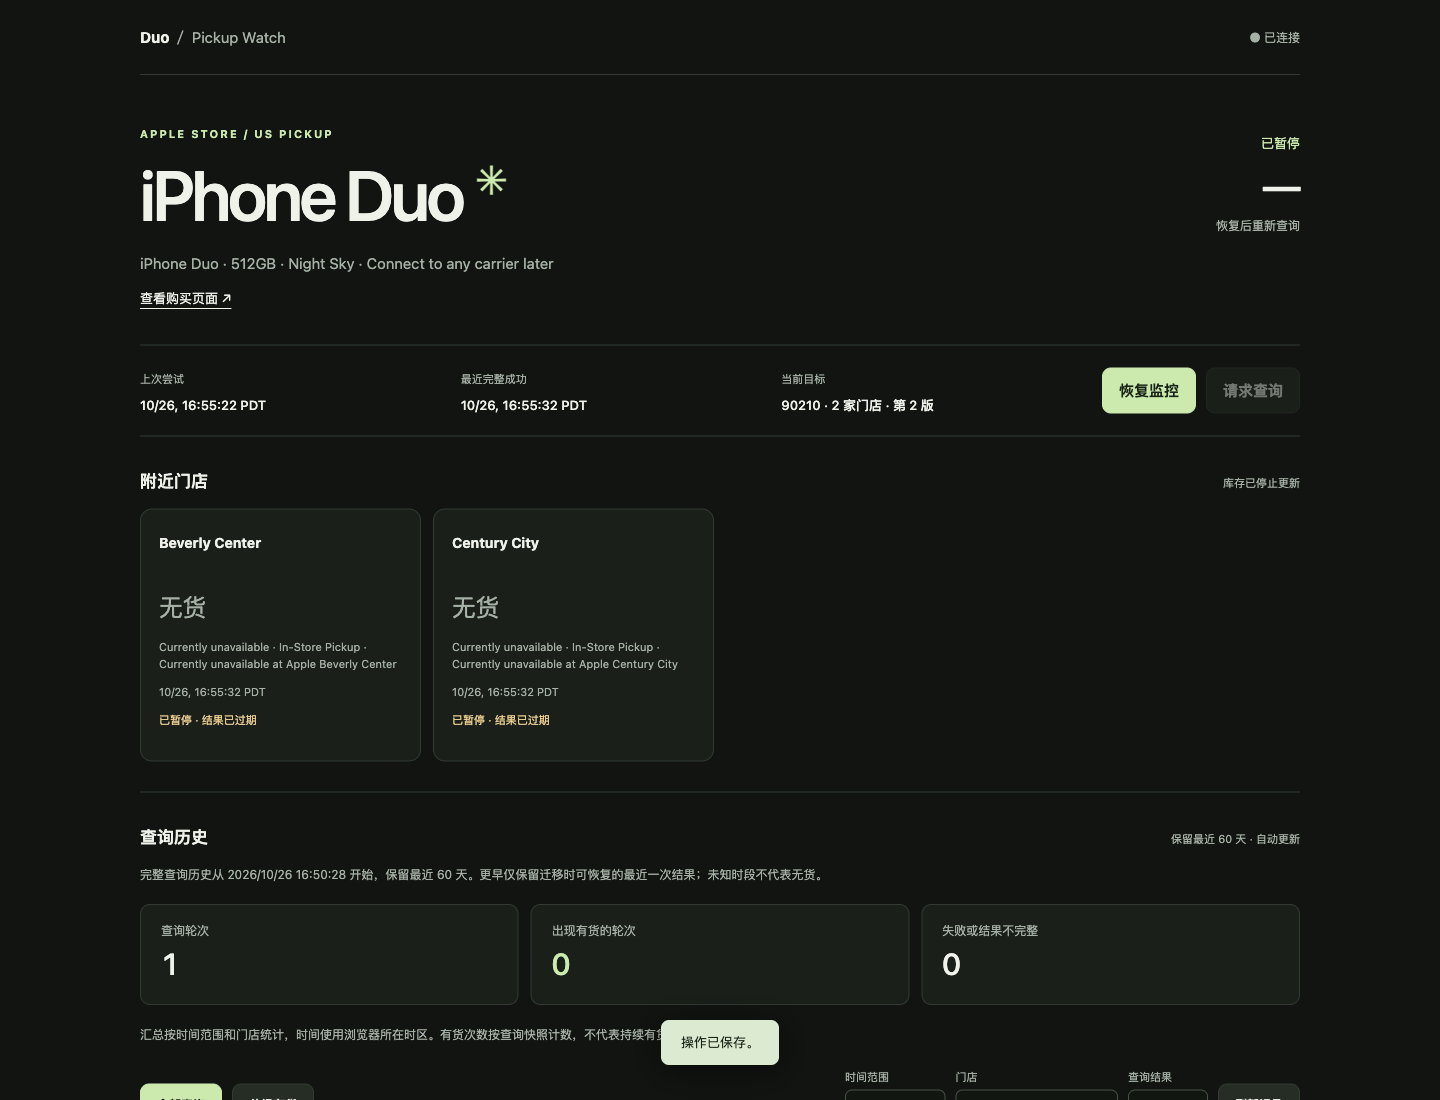
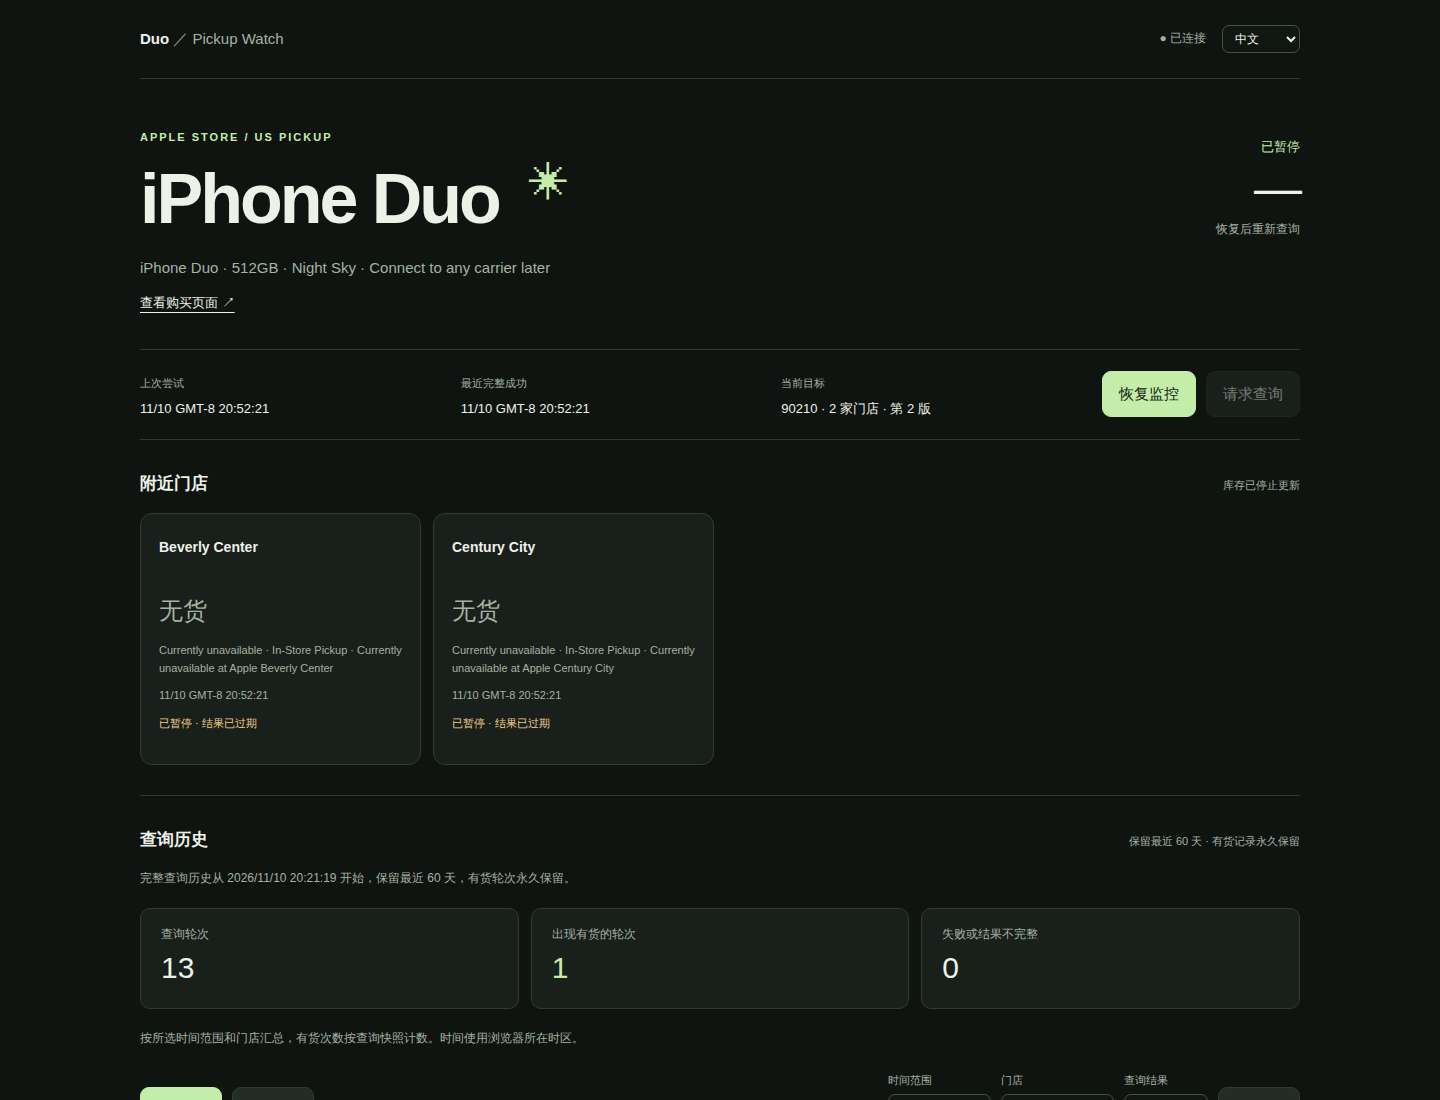
Apply full project review fixes
- Return 404 for a diagnostic screenshot whose file is gone instead of stopping the service
- Reject valid JSON bodies that are not objects, and require string store IDs
- Return 429 for a phone test during the channel cooldown
- Omit unchanged event lists from status pushes and expose retention days in /api/status
- Keep the settings form open across status pushes while unedited
- Prune history at query start and hourly instead of on read
- Drop dev dependencies from the Docker image and remove obsolete migration and fields
- Regenerate the dashboard screenshot and record the review in the verification docs

diff --git a/public/app.js b/public/app.js
@@ -52,6 +52,7 @@ applyLanguage();
 
 let state;
 let formVersion;
+let populatedSettings;
 let dirty = false;
 let received = 0;
 let offset = 0;
@@ -213,6 +214,7 @@ $('#discover').onclick = async (e) => {
 
 function populate(c) {
   formVersion = c.version;
+  populatedSettings = JSON.stringify(c);
 
   for (const [key, options] of Object.entries({
     color: c.options.colors,
@@ -260,6 +262,10 @@ function populate(c) {
 }
 
 function render(data, fresh = true) {
+  // The stream omits events when they have not changed since the previous push.
+  if (!data.events) {
+    data.events = state.events;
+  }
   state = data;
   if (fresh) {
     received = Date.now();
@@ -276,6 +282,8 @@ function render(data, fresh = true) {
   setText($('#last-attempt'), date(r.lastAttempt) || '尚未查询');
   setText($('#last-success'), date(r.lastComplete) || '尚未成功');
   setText($('#target'), `${c.zip} · ${c.stores.length} 家门店 · 第 ${c.version} 版`);
+  setText($('#history-retention'), `保留最近 ${data.retention.historyDays} 天 · 有货记录永久保留`);
+  setText($('#events-retention'), `保留 ${data.retention.eventDays} 天 · 有货相关永久保留`);
 
   $('#toggle').disabled = false;
   setText($('#toggle'), r.paused ? '恢复监控' : '暂停监控');
@@ -345,8 +353,10 @@ function render(data, fresh = true) {
 
   $('#test-bark').disabled = !c.barkConfigured;
   $('#test-irm').disabled = !c.irmEnabled;
-  $('#cleanup-irm').disabled =
-    !r.paused || !r.irm.pendingGroups || (!r.irm.legacyPaused && r.irm.notBefore > data.serverTime);
+  // Legacy recovery also restores a channel that has no groups left to clear.
+  const cleanupReady =
+    r.irm.legacyPaused || (r.irm.pendingGroups > 0 && !(r.irm.notBefore > data.serverTime));
+  $('#cleanup-irm').disabled = !r.paused || !cleanupReady;
   setText(
     $('#irm-description'),
     c.irmEnabled
@@ -356,8 +366,11 @@ function render(data, fresh = true) {
 
   renderEvents();
 
+  // Rebuilding the form on every push would close an open dropdown.
   if (!dirty) {
-    populate(c);
+    if (populatedSettings !== JSON.stringify(c)) {
+      populate(c);
+    }
   } else if (formVersion !== c.version) {
     setText(
       $('#save-message'),
@@ -404,7 +417,7 @@ async function loadHistory() {
     historyNext = data.nextCursor;
     setText(
       $('#history-coverage'),
-      `完整查询历史从 ${historyDate(data.historyStartedAt)} 开始，保留最近 ${data.retentionDays} 天，有货轮次永久保留。更早仅保留迁移时可恢复的最近一次结果。`,
+      `完整查询历史从 ${historyDate(data.historyStartedAt)} 开始，保留最近 ${data.retentionDays} 天，有货轮次永久保留。`,
     );
     setText($('#history-total'), data.summary.total.toLocaleString(language));
     setText($('#history-available'), data.summary.availableRounds.toLocaleString(language));

diff --git a/public/i18n.js b/public/i18n.js
@@ -17,7 +17,7 @@
     附近门店: 'Nearby stores',
     库存按监控周期更新: 'Inventory updates on the monitoring schedule',
     查询历史: 'Query history',
-    '保留最近 60 天 · 有货记录永久保留': 'Last 60 days · Stock records kept permanently',
+    '保留最近 {days} 天 · 有货记录永久保留': 'Last {days} days · Stock records kept permanently',
     全部记录: 'All records',
     '正在读取历史记录…': 'Loading query history…',
     查询轮次: 'Query rounds',
@@ -88,7 +88,7 @@
     '首次保存即确认选定门店；恢复监控是独立操作。':
       'Saving confirms the selected stores. Resume monitoring when ready.',
     最近事件: 'Recent events',
-    '保留 30 天 · 有货相关永久保留': '30 days · Stock-related events kept permanently',
+    '保留 {days} 天 · 有货相关永久保留': '{days} days · Stock-related events kept permanently',
     事件类型: 'Event type',
     全部事件: 'All events',
     有货与提醒: 'Stock and alerts',
@@ -153,8 +153,8 @@
     '服务端已是第 {version} 版。当前编辑内容仍保留；重新载入后再保存。':
       'The server has version {version}. Your edits are retained; reload before saving.',
     '正在读取记录…': 'Loading records…',
-    '完整查询历史从 {time} 开始，保留最近 {days} 天，有货轮次永久保留。更早仅保留迁移时可恢复的最近一次结果。':
-      'Complete history starts at {time} and is retained for {days} days; rounds with stock are kept permanently. Older history includes only the latest recoverable snapshot.',
+    '完整查询历史从 {time} 开始，保留最近 {days} 天，有货轮次永久保留。':
+      'Complete history starts at {time} and is retained for {days} days; rounds with stock are kept permanently.',
     '{count} 次有货查询': '{count} queries with stock',
     '首次记录：{time}': 'First recorded: {time}',
     '最近记录：{time}': 'Last recorded: {time}',
@@ -296,8 +296,6 @@
       'Version {version} query ended after settings changed. Results kept in history only.',
     '第 {version} 版查询完成：{available} 家可取货，{valid} 家有效。':
       'Version {version} query complete: {available} available, {valid} valid stores.',
-    '查询失败：{error}，未知状态不是无货。':
-      'Query failed: {error}. Unknown does not mean unavailable.',
     '查询失败：{error}，库存待确认。': 'Query failed: {error}. Stock status unknown.',
     部分门店未知: 'Some stores are unknown',
     '服务未返回有效 JSON': 'The service did not return valid JSON',

diff --git a/public/index.html b/public/index.html
@@ -71,7 +71,7 @@
         <section class="history" aria-labelledby="history-heading">
           <div class="section-title">
             <h2 id="history-heading">查询历史</h2>
-            <span class="muted">保留最近 60 天 · 有货记录永久保留</span>
+            <span id="history-retention" class="muted">保留最近 60 天 · 有货记录永久保留</span>
           </div>
           <p id="history-coverage" class="fine">正在读取历史记录…</p>
           <div class="history-stats">
@@ -293,7 +293,7 @@
           <section class="events">
             <div class="section-title">
               <h2>最近事件</h2>
-              <span class="muted">保留 30 天 · 有货相关永久保留</span>
+              <span id="events-retention" class="muted">保留 30 天 · 有货相关永久保留</span>
             </div>
             <label class="event-filter">
               事件类型

diff --git a/public/style.css b/public/style.css
@@ -59,12 +59,6 @@ button.primary {
   color: #152316;
 }
 
-button.quiet {
-  border: 0;
-  background: none;
-  padding: 7px 10px;
-}
-
 input:not([type='checkbox']) {
   width: 100%;
   background: #101611;

diff --git a/docs/verification.en.md b/docs/verification.en.md
@@ -107,3 +107,12 @@ Initial release checks: 2026-10-26. Later checks are recorded in the entries bel
 - On upgrade, events in the old state JSON migrate to the event table in their original order. Recognizable stock queries and stock Bark records are marked for permanent retention, and the events are then removed from the state JSON.
 - Of 75 local tests, 66 passed and nine Linux Docker browser tests skipped as expected. In an isolated container without network access, the first run of the release image hit one ECONNRESET in an HTTP test; three reruns of that file and two full-suite reruns all passed 75 of 75 without skips. Named-volume and bind-directory storage checks passed. New regressions cover the 30-day boundary, permanent retention, the screenshot limit, paging, legacy event migration, stock rounds beyond 60 days, and marking of successful and failed stock alerts.
 - Deployment status: deployed to the existing production instance on 2026-11-10. The service was stopped and backed up first. Configuration, runtime state, credentials, mounts, and the digest of 9,277 query-history rows were preserved, and SQLite quick_check returned ok. All 200 legacy events migrated, two of them marked as permanent stock records. The live dashboard was checked for both languages, type filters, and loading earlier events. The first query after restart completed successfully with Apple HTTP 200, and all five stores were unavailable.
+
+## 2026-11-10 full project review
+
+- Fixes: opening a failure screenshot whose event remains but whose file is gone used to stop the service and now returns 404. A request body that is valid JSON but not an object returns "A JSON object is required". Store IDs must be strings. The legacy phone pause can be recovered even when no groups are left to clear. A phone test during the channel cooldown returns 429, matching Bark and cleanup.
+- Dashboard: while unedited, the settings form is rebuilt only when server settings change, so a status push no longer closes an open dropdown. The retention captions for query history and recent events now come from a new `retention` field in `/api/status`.
+- Efficiency: status pushes omit the event list when it has not changed; new streams still receive the full list. Reading query history no longer prunes; pruning runs at the start of each query and hourly. The Docker image no longer installs Prettier or other development dependencies.
+- Cleanup: removed the migration that recovered the latest result from databases created before the public release (the first public release already kept query history; existing recovered records still display), the `irmReady` field that duplicated `irmConfigured`, the unused `button.quiet` style, a retired English translation, and the empty `.github` directory. Database credential migration, legacy event migration, the diagnostics column upgrade, and legacy phone pause recovery remain because databases from the first public release need them. The Dockerfile keeps `TZ` with a comment: Chromium reports the time zone to Apple's pages.
+- Screenshot: `docs/dashboard.png` was regenerated from sample data and shows the language switcher and retention captions.
+- Checks: locally, 68 of 77 tests passed and 9 Linux Docker browser tests were skipped by environment; the format check passed. The image built under Docker on Apple Silicon (arm64), and with networking disabled all 77 tests passed without skips. Named-volume and bind-directory storage checks passed, and the Compose configuration validated. The ECONNRESET seen once in an HTTP test during the first in-image run on 11-10 did not reproduce: 40 consecutive runs of the HTTP test file and 10 consecutive full-suite runs in a one-CPU container all passed, so that test is unchanged. The changes are not deployed.

diff --git a/docs/verification.md b/docs/verification.md
@@ -107,3 +107,12 @@
 - 升级时，旧状态 JSON 中的事件按原顺序迁入事件表，可识别的有货查询与库存 Bark 记录标为永久保留，迁移后从状态 JSON 移除。
 - 本机 75 项中 66 项通过、9 项 Linux Docker 浏览器测试按环境跳过。部署镜像在禁用外网的隔离容器中首次运行有 1 项 HTTP 测试出现 ECONNRESET，单独重跑该文件 3 次及完整套件 2 次均为 75 项全部通过、无跳过；命名卷与绑定目录存储检查通过。新增回归覆盖 30 天边界、永久保留、截图上限、分页、旧事件迁移、有货轮次超过 60 天保留，以及库存提醒成功 / 失败事件的标记。
 - 部署状态：2026-11-10 已上线至既有正式实例。部署前停机备份，配置、运行状态、凭据、挂载及 9277 条查询历史摘要保留，SQLite quick_check 为 ok；200 条旧事件全部迁入，其中 2 条有货记录标为永久保留。管理页实际验证中英文界面、类型筛选与加载更早事件。重启后首轮查询成功完成，Apple HTTP 200，五家门店均无货。
+
+## 2026-11-10 全项目审查
+
+- 修复：事件仍引用但截图文件已不存在时，打开失败截图会让服务退出，现在返回 404；合法 JSON 但不是对象的请求体返回“JSON 对象格式错误”；门店 ID 必须是字符串；旧版遗留电话暂停在没有待清理分组时也能点击恢复；电话测试遇到渠道冷却时返回 429，与 Bark 和清理一致。
+- 管理页：未编辑时只在服务端设置变化后重建表单，不再每次推送都关闭已展开的下拉框；“查询历史”和“最近事件”的保留天数改由 `/api/status` 新增的 `retention` 字段提供。
+- 效率：状态推送在事件未变化时省略事件列表，新连接仍收到完整列表；读取查询历史不再触发清理，清理只在每轮查询开始和每小时执行；Docker 镜像不再安装 Prettier 等开发依赖。
+- 清理：移除仅适用于公开发布前数据库的“迁移时恢复最近一次结果”逻辑（公开首版已有查询历史；已有的恢复记录仍正常显示）、与 `irmConfigured` 重复的 `irmReady` 字段、未使用的 `button.quiet` 样式、已失效的英文翻译，以及空的 `.github` 目录。数据库凭据迁移、旧事件迁移、诊断字段补列和旧版电话暂停恢复仍保留，因为公开首版的数据库会用到。Dockerfile 的 `TZ` 保留并注明用途：Chromium 会把时区提供给 Apple 页面。
+- 截图：`docs/dashboard.png` 用示例数据重新生成，包含语言切换和保留天数说明。
+- 检查：本机 77 项中 68 项通过、9 项 Linux Docker 浏览器测试按环境跳过，格式检查通过。在 Apple Silicon（arm64）的 Docker 中构建镜像，禁用外网运行 77 项全部通过、无跳过；命名卷与绑定目录存储检查通过，Compose 配置校验通过。11-10 首次镜像测试中出现过的 HTTP 测试 ECONNRESET 未能复现：单 CPU 容器中 HTTP 测试文件连续 40 次、完整套件连续 10 次均通过，测试未修改。改动尚未部署。

diff --git a/docs/agent-setup.en.md b/docs/agent-setup.en.md
@@ -42,7 +42,7 @@ Handle the findings as follows:
 
 - Docker missing: install Linux Engine and the Compose plugin using the [official Docker Engine instructions](https://docs.docker.com/engine/install/), or install and start [Docker Desktop](https://docs.docker.com/desktop/) on a desktop system with Linux containers. Have the user complete administrator actions or system restarts, then continue.
 - Docker unavailable: check the daemon / Desktop, user permissions, and Docker context, and connect to the chosen deployment host.
-- Resources and architecture: reserve at least 2 GiB of available memory and check disk space for the build. Linux x86_64 Docker has been verified. Follow this procedure to verify the user's ARM64 / Apple Silicon, Windows, or NAS environment.
+- Resources and architecture: reserve at least 2 GiB of available memory and check disk space for the build. Linux x86_64 Docker has been verified. On Apple Silicon (arm64), the image builds and the automated tests pass. Follow this procedure to verify live Apple queries there and on the user's Windows or NAS environment.
 - Remote server: clone or transfer the source into the target directory over SSH / a terminal, then configure `.env`, build, and start on that machine.
 - ZIP download: extract it and enter the directory containing `compose.yaml`, `Dockerfile`, and `seccomp_profile.json`. Git is not required.
 

diff --git a/docs/agent-setup.md b/docs/agent-setup.md
@@ -42,7 +42,7 @@ docker compose ls
 
 - 没有 Docker：按 [Docker Engine 官方安装说明](https://docs.docker.com/engine/install/)安装 Linux Engine 和 Compose 插件；桌面系统按 [Docker Desktop 官方说明](https://docs.docker.com/desktop/)安装并启动，使用 Linux 容器。需要管理员操作或系统重启时，由用户完成后继续。
 - Docker 不可用：检查 daemon / Desktop、当前用户权限和 Docker context，连接用户指定的部署主机。
-- 资源与架构：至少预留 2 GiB 可用内存，并检查构建所需磁盘空间。已验证 Linux x86_64 Docker；ARM64 / Apple Silicon、Windows / NAS 的具体环境按本流程验收。
+- 资源与架构：至少预留 2 GiB 可用内存，并检查构建所需磁盘空间。已验证 Linux x86_64 Docker；Apple Silicon（arm64）已通过镜像构建与自动化测试，真实 Apple 查询以及 Windows / NAS 的具体环境按本流程验收。
 - 远程服务器：通过 SSH / 终端在目标目录 clone 仓库或传输源码，在目标机器配置 `.env`、构建和启动。
 - 下载 ZIP：解压后进入含 `compose.yaml`、`Dockerfile` 和 `seccomp_profile.json` 的目录即可，无需 Git。
 

diff --git a/README.en.md b/README.en.md
@@ -35,7 +35,7 @@ Follow the [AI agent setup and deployment guide](docs/agent-setup.en.md) for the
 
 ## 1. Docker deployment
 
-You need Docker Engine with Compose v2, or Docker Desktop, at least 2 GiB of available memory, and network access to Apple and your selected notification services. Git is used for cloning and updates; a ZIP download can be deployed without Git. The container runs Linux, and Linux x86_64 has been verified. ARM64 / Apple Silicon has not been verified. Keep the Chromium sandbox enabled and use the supplied container permissions.
+You need Docker Engine with Compose v2, or Docker Desktop, at least 2 GiB of available memory, and network access to Apple and your selected notification services. Git is used for cloning and updates; a ZIP download can be deployed without Git. The container runs Linux, and Linux x86_64 has been verified. On Apple Silicon (arm64), the image builds and the automated tests pass; live Apple queries have not been verified there. Keep the Chromium sandbox enabled and use the supplied container permissions.
 
 ```sh
 git clone https://github.com/ChenshuXu/iphone-duo-monitor.git

diff --git a/README.md b/README.md
@@ -35,7 +35,7 @@
 
 ## 1. Docker 部署
 
-需要 Docker Engine + Compose v2（或 Docker Desktop）、至少 2 GiB 可用内存，以及可访问 Apple 和所选通知服务的网络；Git 用于克隆和更新，ZIP 下载首次部署不需要 Git。容器内为 Linux，已验证 Linux x86_64；ARM64 / Apple Silicon 尚未验证。不要使用 `--privileged` 或关闭 Chromium 沙箱。
+需要 Docker Engine + Compose v2（或 Docker Desktop）、至少 2 GiB 可用内存，以及可访问 Apple 和所选通知服务的网络；Git 用于克隆和更新，ZIP 下载首次部署不需要 Git。容器内为 Linux，已验证 Linux x86_64；Apple Silicon（arm64）上的镜像构建与自动化测试已通过，真实 Apple 查询尚未验证。不要使用 `--privileged` 或关闭 Chromium 沙箱。
 
 ```sh
 git clone https://github.com/ChenshuXu/iphone-duo-monitor.git
